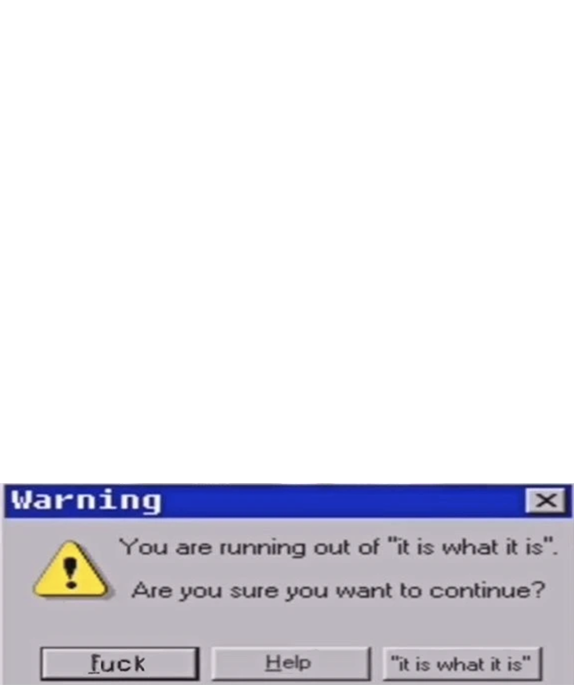
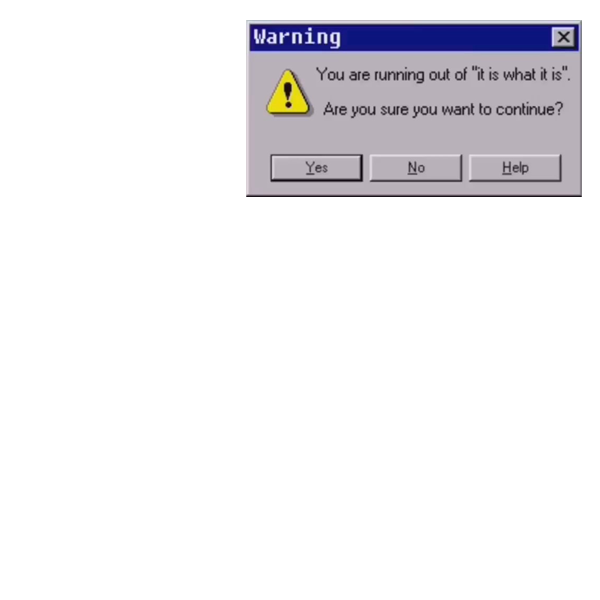
v3

diff --git a/pfpimgen/pfpimgen.py b/pfpimgen/pfpimgen.py
@@ -1400,11 +1400,11 @@ class PfpImgen(commands.Cog):
         return _file
 
     def gen_itis(self, ctx, member_avatar):
-        member_avatar = self.bytes_to_image(member_avatar, 800)
+        member_avatar = self.bytes_to_image(member_avatar, 600)
 
         # member_avatar = member_avatar.rotate(330, Image.NEAREST, expand=1)
         # base canvas
-        im = Image.new("RGBA", (574, 685), None)
+        im = Image.new("RGBA", (600, 600), None)
         itismask = Image.open(
             f"{bundled_data_path(self)}/itis/itis_mask.png", mode="r"
         ).convert("RGBA")
@@ -1412,7 +1412,7 @@ class PfpImgen(commands.Cog):
         # member_avatar.rotate(90, resample=0, expand=0, center=None, translate=None, fillcolor=None)
         # im.rotate(120, resample=0, expand=0, center=None, translate=None, fillcolor=None)
 
-        im.paste(member_avatar, (200, 0), member_avatar)
+        im.paste(member_avatar, (0, 0), member_avatar)
         im.paste(itismask, (0, 0), itismask)
         itismask.close()
         member_avatar.close()
